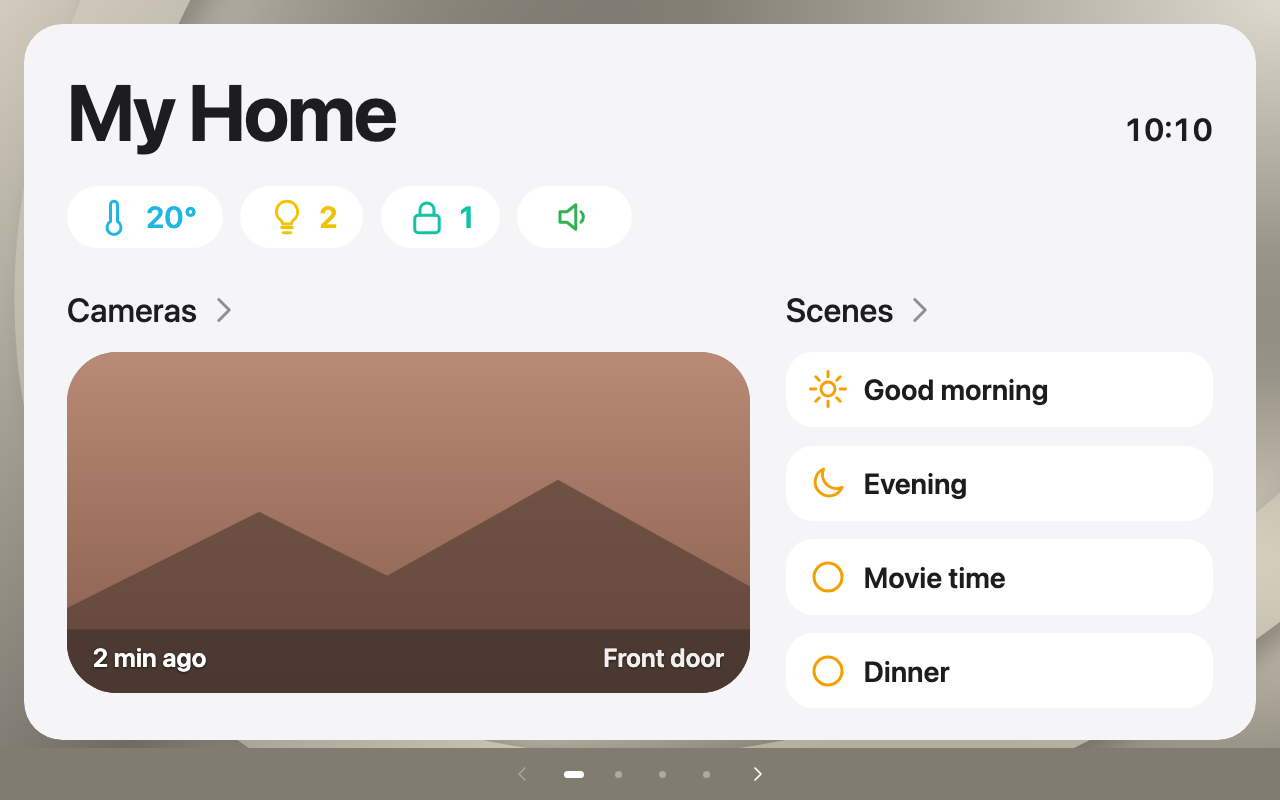
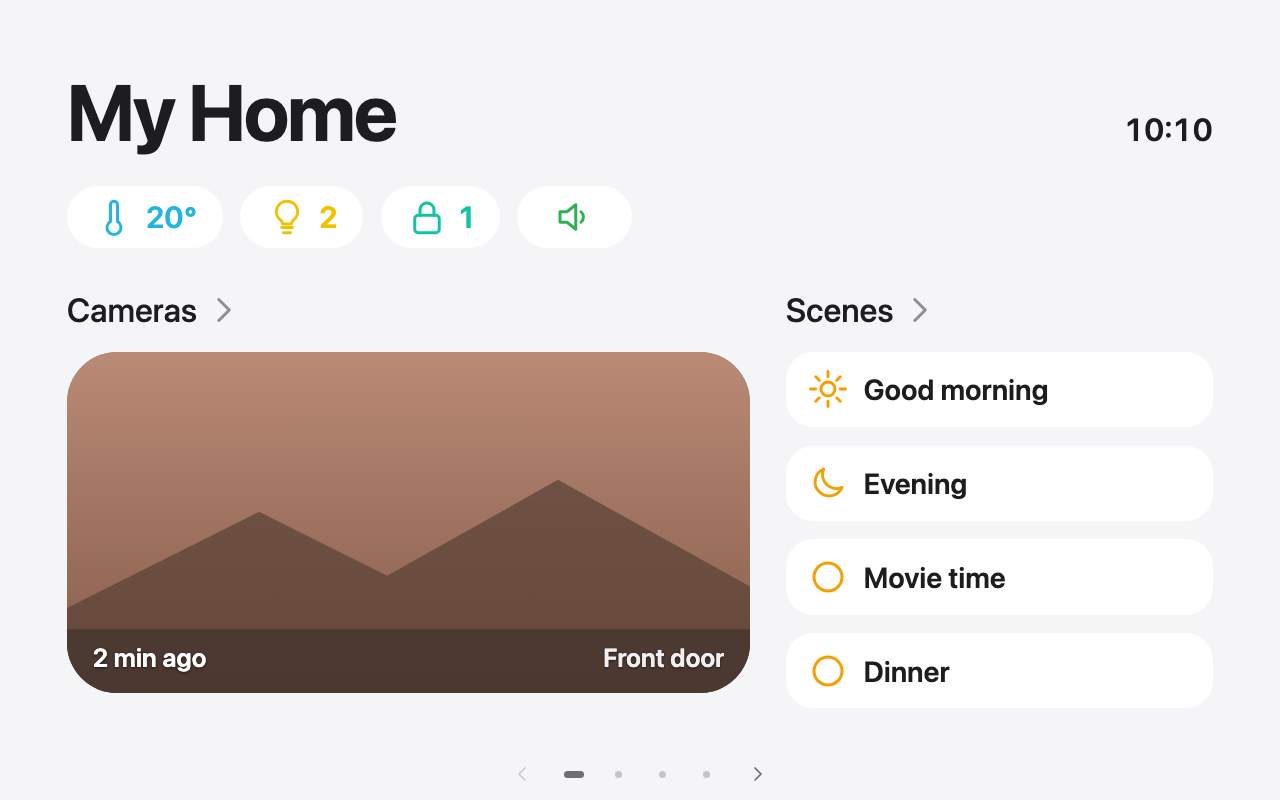
Home overview: page-wide colour, selectable as a screensaver

Changed region(s): [[0.0, 0.0, 1.0, 1.0]]

diff --git a/src/controller/render.js b/src/controller/render.js
@@ -9,6 +9,10 @@ import {esc} from '../core/html.js';
 import {t} from '../core/i18n.js';
 import {getWidget} from '../core/registry.js';
 
+/** A page that holds the home overview alone: the whole page takes the overview's colour (no wallpaper around it). */
+export const isHomePage = (screen) =>
+  screen?.placements?.length === 1 && screen.placements[0].widget?.type === 'home_overview';
+
 const SURFACES_WITH_WALLPAPER = ['teal', 'silver', 'champagne'];
 
 export const renderMixin = {
@@ -53,7 +57,7 @@ export const renderMixin = {
 
     const shell = this._ensureShell();
     const extra = this._extensionShellClasses().join(' ');
-    shell.className = `shell adaptive carousel surface-${surface} layout-page ${extra} ${config.bedtime ? 'night-mode' : ''} ${this._dim ? 'screen-dim' : ''} ${dark ? 'dark' : ''} ${config.palette === 'forest' ? 'forest' : ''} ${config.high_contrast ? 'contrast' : ''} ${config.single_widget ? 'single-widget' : ''}${this._perf === 'lite' ? ' perf-lite' : ''}`;
+    shell.className = `shell adaptive carousel surface-${surface} layout-page ${extra} ${config.bedtime ? 'night-mode' : ''} ${this._dim ? 'screen-dim' : ''} ${dark ? 'dark' : ''} ${config.palette === 'forest' ? 'forest' : ''} ${config.high_contrast ? 'contrast' : ''} ${config.single_widget ? 'single-widget' : ''}${this._perf === 'lite' ? ' perf-lite' : ''}${isHomePage(screen) ? ' surface-home' : ''}`;
 
     this._fillFace(shell.querySelector('.face'), screen);
     this._writeNav();

diff --git a/src/styles/surfaces/home.css b/src/styles/surfaces/home.css
@@ -1,0 +1,35 @@
+/* @owns surface-home */
+/*
+ * The page that holds the home overview alone takes the overview's own colour (light, or dark under `.dark`) all the way
+ * out, instead of showing the wallpaper around it, and the page controls (dots and arrows) change colour to stay visible.
+ * The colours are the ones in src/overviews/home/style.css.
+ */
+.carousel.surface-home {
+  --hv-home-bg: #f5f5f7;
+  --hv-home-ink: #1d1d1f;
+  background: var(--hv-home-bg) !important;
+  color: var(--hv-home-ink);
+}
+.carousel.surface-home.dark {
+  --hv-home-bg: #1c1c1e;
+  --hv-home-ink: #f5f5f7;
+}
+.carousel.surface-home .face {
+  background: transparent !important;
+}
+.carousel.surface-home .face::before {
+  display: none;
+}
+.carousel.surface-home .page-nav {
+  background: transparent !important;
+  color: #6e6e73;
+}
+.carousel.surface-home.dark .page-nav {
+  color: #a1a1a6;
+}
+.carousel.surface-home .page-nav button:disabled {
+  opacity: 0.3;
+}
+.carousel.surface-home .page-dot.selected span {
+  opacity: 1;
+}

diff --git a/src/controller/screen-model.js b/src/controller/screen-model.js
@@ -1,6 +1,7 @@
 // The screen model (which widgets go on which carousel page, at which size) and the layout pass that
 // positions the current page. Ported from the original; the maths is unchanged.
 import {buildScreens} from '../layout/index.js';
+import {isHomePage} from './render.js';
 
 /** Height used for the carousel when nothing else is known, and the smallest height it is ever given. */
 const MIN_HEIGHT = 250;
@@ -206,6 +207,7 @@ export const screenModelMixin = {
     // add/remove (not toggle): remove rewrites the class attribute even when the token is absent
     if (screen.surface === 'soft') shell.classList.add('surface-soft');
     else shell.classList.remove('surface-soft');
+    shell.classList.toggle('surface-home', isHomePage(screen));
   },
 
   /** Replace the page navigation and remember its markup, so `_layout` can tell when it has changed. */

diff --git a/src/overviews/home/index.js b/src/overviews/home/index.js
@@ -217,8 +217,7 @@ export default defineOverview({
   entity: 'none',
   domains: [],
   strings,
-  // A page of the dashboard, not a screensaver: it is not offered in the editor's screensaver list.
-  selectable: false,
+  // Also offered as a screensaver (the summary instead of, say, the weather): there it is read-only and a press wakes.
   // Its chips, headings, cameras and scenes are buttons (card mode only).
   interactive: true,
   tap: {card: 'none'},

diff --git a/docs/screensavers.md b/docs/screensavers.md
@@ -19,7 +19,7 @@ be used four ways:
 | [Cover art](overviews/cover_art.md) | `cover_art` | idle with priority 10 and an eligibility rule (a speaker is playing with a cover), automatic with `music_screensaver`, card | `media_player.*` | none | Screensaver: closes it. Card: more-info |
 | [Photo frame](overviews/photo_frame.md) | `photo_frame` | idle (screensaver), card | none | `folder`, `interval`, `shuffle`, `recursive`, `show_time` | Card: opens it full screen |
 | [Month calendar](overviews/calendar_month.md) | `calendar_month` | idle (screensaver), opened by pressing a clock, date or calendar widget, card | none | `week_start`, `show_time` | Card: nothing |
-| [Home overview](overviews/home.md) | `home` | card (a page of the dashboard; not offered as a screensaver) | none, built from the carousel's widgets | `title`, `show_time` | Chips and headings go to the page of a widget, a camera opens the camera gallery (or more-info), a scene runs |
+| [Home overview](overviews/home.md) | `home` | idle screensaver (read-only), or a card / the `home_overview` first page | none, built from the carousel's widgets | `title`, `show_time` | Chips and headings go to the page of a widget, a camera opens the camera gallery (or more-info), a scene runs |
 
 Card types are `custom:houseview-<name>-overview-card` with the name in the table's `type` column, underscores written as
 hyphens: `custom:houseview-weather-overview-card`, `custom:houseview-timer-overview-card`,

diff --git a/docs/overviews/home.md b/docs/overviews/home.md
@@ -33,9 +33,12 @@ carousel's dark appearance.
 | title | text | Home | The large heading |
 | show_time | boolean | true | Show the time at the top right (in your time format) |
 
-The card takes `page`, `size` (default `large`) and `name`; it takes no entity. It is a page of the dashboard, so it is
-not offered in the editor's screensaver list; as a screensaver written in YAML it shows the same screen without
-buttons (a screensaver press only wakes the dashboard).
+The card takes `page`, `size` (default `large`) and `name`; it takes no entity. It can be a page of the dashboard (the
+chips, cameras and scenes are buttons) or a **screensaver**: choose **Home overview** in the editor's screensaver list
+(or `screensaver: {type: home}`) and the same screen appears after the idle time, instead of, say, the weather. As a
+screensaver it is read-only: a press only wakes the dashboard. The screensaver shows the carousel's lights, climate,
+locks, cameras and scenes, so it follows what you add. A page that holds only this overview also takes the overview's
+colour for the whole page background, and the page dots change colour to match.
 
 ```yaml
 type: custom:houseview-card

diff --git a/src/overviews/home/README.md b/src/overviews/home/README.md
@@ -37,9 +37,12 @@ carousel's dark appearance.
 | title | text | Home | The large heading |
 | show_time | boolean | true | Show the time at the top right (in your time format) |
 
-The card takes `page`, `size` (default `large`) and `name`; it takes no entity. It is a page of the dashboard, so it is
-not offered in the editor's screensaver list; as a screensaver written in YAML it shows the same screen without
-buttons (a screensaver press only wakes the dashboard).
+The card takes `page`, `size` (default `large`) and `name`; it takes no entity. It can be a page of the dashboard (the
+chips, cameras and scenes are buttons) or a **screensaver**: choose **Home overview** in the editor's screensaver list
+(or `screensaver: {type: home}`) and the same screen appears after the idle time, instead of, say, the weather. As a
+screensaver it is read-only: a press only wakes the dashboard. The screensaver shows the carousel's lights, climate,
+locks, cameras and scenes, so it follows what you add. A page that holds only this overview also takes the overview's
+colour for the whole page background, and the page dots change colour to match.
 
 ```yaml
 type: custom:houseview-card

diff --git a/CHANGELOG.md b/CHANGELOG.md
@@ -14,6 +14,10 @@ The release workflow publishes the section of the tagged version as the release 
 
 ### Added
 
+* The home overview can be a screensaver (choose it in the editor's screensaver list), read-only, instead of the weather.
+* A page that holds only the home overview now takes the overview's colour across the whole page, and the page dots change
+  colour to stay visible.
+
 * `home_overview: true` (a switch in the card editor) adds the home overview as the first page of the carousel without placing a
   card; `home_title` sets its title. Off by default.
 
